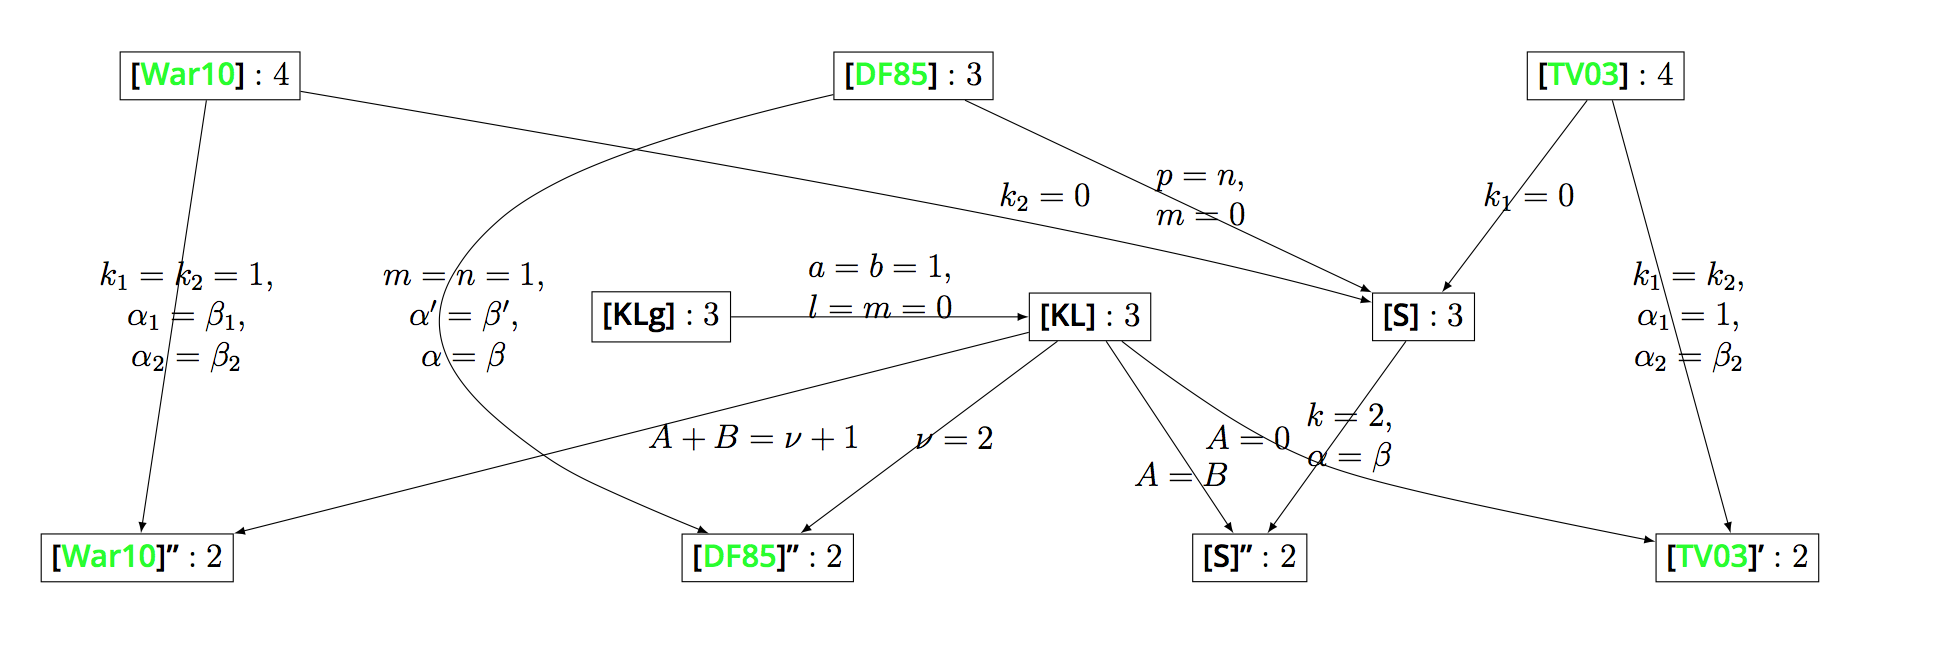
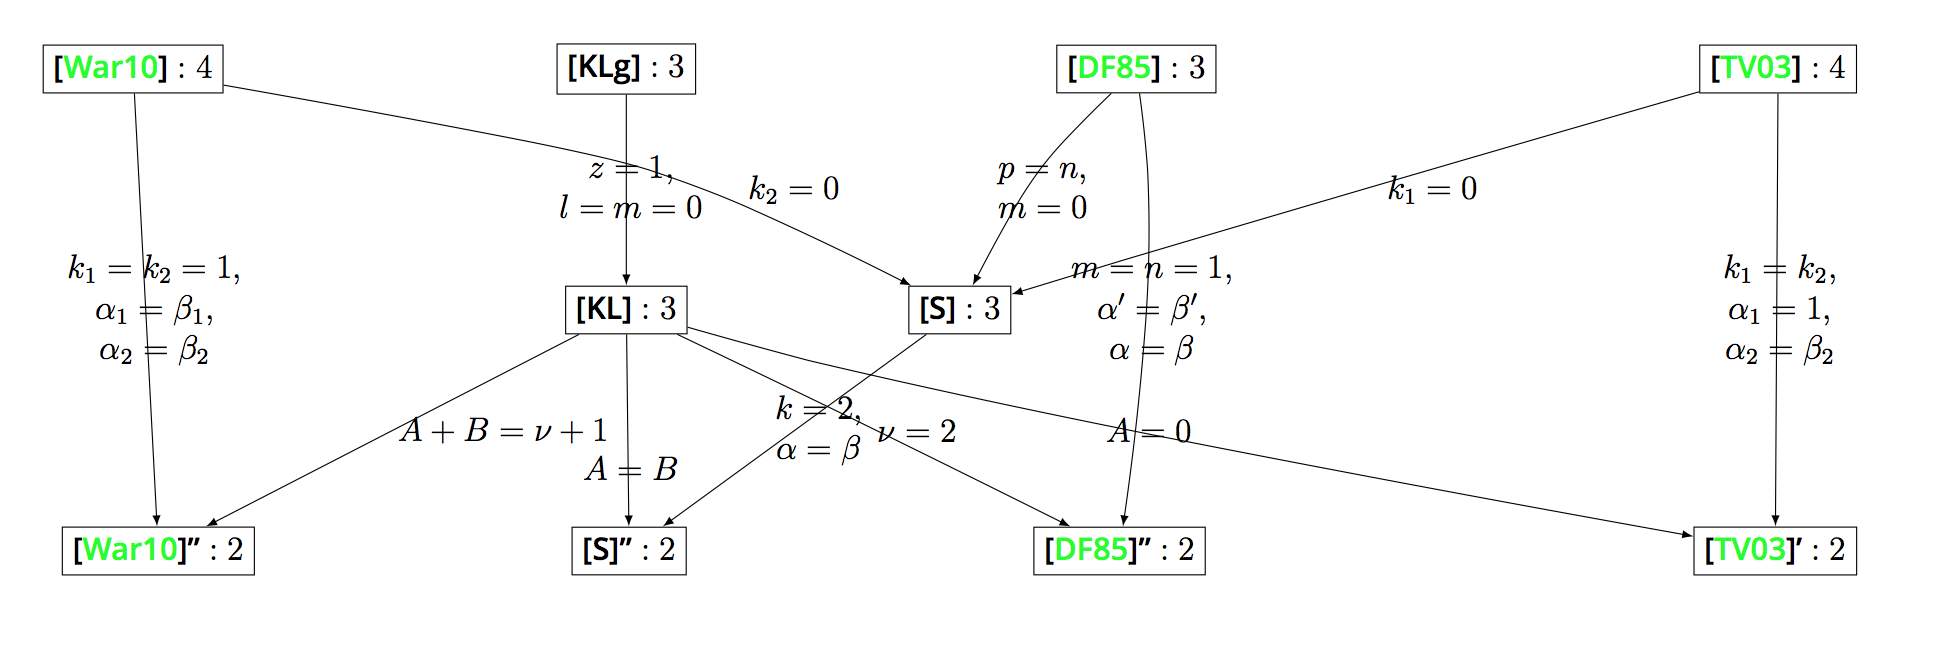
Commit

diff --git a/forlatex/intdep-dot2tex-fig2.tex b/forlatex/intdep-dot2tex-fig2.tex
@@ -22,41 +22,41 @@
   \definecolor{fillcol}{rgb}{1.0,1.0,1.0};
   \pgfsetfillcolor{fillcol}
 \end{scope}
-  \node (KLg) at (287.16bp,104.0bp) [draw,rectangle] {${\mbox{[KLg]}}:3$};
-  \node (Spp) at (497.16bp,18.0bp) [draw,rectangle] {$\mbox{[S]''}:2$};
-  \node (KL) at (440.16bp,104.0bp) [draw,rectangle] {${\mbox{[KL]}}:3$};
-  \node (S) at (559.16bp,104.0bp) [draw,rectangle] {$\mbox{[S]}:3$};
-  \node (DF85) at (377.16bp,190.0bp) [draw,rectangle] {$\mbox{\cite{dotsenko1985four}}:3$};
-  \node (War10) at (126.16bp,190.0bp) [draw,rectangle] {$\mbox{\cite{warnaar2010sl3}}:4$};
-  \node (War10pp) at (100.16bp,18.0bp) [draw,rectangle] {$\mbox{\cite{warnaar2010sl3}''}:2$};
-  \node (DF85pp) at (325.16bp,18.0bp) [draw,rectangle] {$\mbox{\cite{dotsenko1985four}''}:2$};
-  \node (TV03) at (624.16bp,190.0bp) [draw,rectangle] {$\mbox{\cite{tarasov2003selberg}}:4$};
-  \node (TV03p) at (671.16bp,18.0bp) [draw,rectangle] {$\mbox{\cite{tarasov2003selberg}'}:2$};
-  \draw [->] (KLg) ..controls (355.95bp,104.0bp) and (364.52bp,104.0bp)  .. (KL);
+  \node (DF85) at (455.64bp,190.0bp) [draw,rectangle] {$\mbox{\cite{dotsenko1985four}}:3$};
+  \node (Spp) at (274.64bp,18.0bp) [draw,rectangle] {$\mbox{[S]''}:2$};
+  \node (KL) at (273.64bp,104.0bp) [draw,rectangle] {${\mbox{[KL]}}:3$};
+  \node (S) at (392.64bp,104.0bp) [draw,rectangle] {$\mbox{[S]}:3$};
+  \node (KLg) at (273.64bp,190.0bp) [draw,rectangle] {${\mbox{[KLg]}}:3$};
+  \node (War10) at (97.64bp,190.0bp) [draw,rectangle] {$\mbox{\cite{warnaar2010sl3}}:4$};
+  \node (War10pp) at (106.64bp,18.0bp) [draw,rectangle] {$\mbox{\cite{warnaar2010sl3}''}:2$};
+  \node (DF85pp) at (449.64bp,18.0bp) [draw,rectangle] {$\mbox{\cite{dotsenko1985four}''}:2$};
+  \node (TV03) at (684.64bp,190.0bp) [draw,rectangle] {$\mbox{\cite{tarasov2003selberg}}:4$};
+  \node (TV03p) at (683.64bp,18.0bp) [draw,rectangle] {$\mbox{\cite{tarasov2003selberg}'}:2$};
+  \draw [->] (KLg) ..controls (273.64bp,160.36bp) and (273.64bp,145.43bp)  .. (KL);
   \definecolor{strokecol}{rgb}{0.0,0.0,0.0};
   \pgfsetstrokecolor{strokecol}
-  \draw (365.41bp,114.0bp) node {$\begin{array}[]{c}a=b=1,\\l=m=0\end{array}$};
-  \draw [->] (DF85) ..controls (257.57bp,161.95bp) and (230.84bp,146.31bp)  .. (214.66bp,122.0bp) .. controls (196.21bp,94.272bp) and (218.87bp,73.092bp)  .. (246.16bp,54.0bp) .. controls (253.17bp,49.094bp) and (260.96bp,44.594bp)  .. (DF85pp);
-  \draw (216.91bp,104.0bp) node {$\begin{array}[]{c}m=n=1,\\ \alpha'=\beta',\\\alpha=\beta\end{array}$};
-  \draw [->] (TV03) ..controls (601.33bp,159.79bp) and (589.34bp,143.93bp)  .. (S);
-  \draw (596.91bp,147.0bp) node {$k_1=0$};
-  \draw [->] (KL) ..controls (399.03bp,73.243bp) and (376.04bp,56.048bp)  .. (DF85pp);
-  \draw (391.91bp,61.0bp) node {$\nu=2$};
-  \draw [->] (TV03) ..controls (637.32bp,141.85bp) and (653.84bp,81.379bp)  .. (TV03p);
-  \draw (653.91bp,104.0bp) node {$\begin{array}[]{c}k_1=k_2,\\ \alpha_1=1,\\\alpha_2=\beta_2\end{array}$};
-  \draw [->] (KL) ..controls (477.67bp,75.267bp) and (497.4bp,62.231bp)  .. (516.66bp,54.0bp) .. controls (530.58bp,48.051bp) and (545.64bp,42.997bp)  .. (TV03p);
-  \draw (517.91bp,61.0bp) node {$\kern-1.5cm A=0$};
-  \draw [->] (War10) ..controls (118.9bp,141.98bp) and (109.82bp,81.897bp)  .. (War10pp);
-  \draw (117.91bp,104.0bp) node {$\begin{array}[]{c}k_1=k_2=1,\\\alpha_1=\beta_1,\\\alpha_2=\beta_2\end{array}$};
-  \draw [->] (DF85) ..controls (443.47bp,158.67bp) and (481.94bp,140.49bp)  .. (S);
-  \draw (479.91bp,147.0bp) node {$\begin{array}[]{c}p=n,\\m=0\end{array}$};
-  \draw [->] (KL) ..controls (460.19bp,73.79bp) and (470.7bp,57.933bp)  .. (Spp);
-  \draw (472.91bp,61.0bp) node {$\begin{array}[]{c}\\\\A=B\end{array}$};
-  \draw [->] (S) ..controls (537.38bp,73.79bp) and (525.95bp,57.933bp)  .. (Spp);
-  \draw (532.91bp,61.0bp) node {$\begin{array}[]{c}k=2,\\\alpha=\beta\end{array}$};
-  \draw [->] (War10) ..controls (319.57bp,156.83bp) and (456.39bp,132.93bp)  .. (S);
-  \draw (424.11bp,147.0bp) node {$k_2=0$};
-  \draw [->] (KL) ..controls (327.99bp,75.626bp) and (243.53bp,54.264bp)  .. (War10pp);
-  \draw (292.91bp,61.0bp) node {$\kern5emA+B=\nu+1$};
+  \draw (275.39bp,147.0bp) node {$\begin{array}[]{c}z=1,\\l=m=0\end{array}$};
+  \draw [->] (DF85) ..controls (458.71bp,166.05bp) and (459.32bp,159.78bp)  .. (459.64bp,154.0bp) .. controls (461.71bp,116.65bp) and (457.41bp,73.587bp)  .. (DF85pp);
+  \draw (461.39bp,104.0bp) node {$\begin{array}[]{c}m=n=1,\\ \alpha'=\beta',\\\alpha=\beta\end{array}$};
+  \draw [->] (TV03) ..controls (574.86bp,158.3bp) and (509.18bp,139.17bp)  .. (451.64bp,122.0bp) .. controls (450.2bp,121.57bp) and (448.73bp,121.13bp)  .. (S);
+  \draw (561.39bp,147.0bp) node {$k_1=0$};
+  \draw [->] (KL) ..controls (323.37bp,80.247bp) and (336.57bp,73.886bp)  .. (348.64bp,68.0bp) .. controls (366.74bp,59.174bp) and (386.62bp,49.362bp)  .. (DF85pp);
+  \draw (377.39bp,61.0bp) node {$\nu=2$};
+  \draw [->] (TV03) ..controls (684.36bp,141.98bp) and (684.01bp,81.897bp)  .. (TV03p);
+  \draw (685.39bp,104.0bp) node {$\begin{array}[]{c}k_1=k_2,\\ \alpha_1=1,\\\alpha_2=\beta_2\end{array}$};
+  \draw [->] (KL) ..controls (333.11bp,87.331bp) and (335.9bp,86.647bp)  .. (338.64bp,86.0bp) .. controls (416.07bp,67.675bp) and (504.09bp,50.383bp)  .. (TV03p);
+  \draw (481.39bp,61.0bp) node {$\kern-1.5cm A=0$};
+  \draw [->] (War10) ..controls (100.15bp,141.98bp) and (103.3bp,81.897bp)  .. (War10pp);
+  \draw (105.39bp,104.0bp) node {$\begin{array}[]{c}k_1=k_2=1,\\\alpha_1=\beta_1,\\\alpha_2=\beta_2\end{array}$};
+  \draw [->] (DF85) ..controls (431.2bp,166.27bp) and (425.7bp,160.11bp)  .. (421.14bp,154.0bp) .. controls (415.87bp,146.94bp) and (410.85bp,138.81bp)  .. (S);
+  \draw (422.39bp,147.0bp) node {$\begin{array}[]{c}p=n,\\m=0\end{array}$};
+  \draw [->] (KL) ..controls (273.98bp,74.36bp) and (274.16bp,59.434bp)  .. (Spp);
+  \draw (275.39bp,61.0bp) node {$\begin{array}[]{c}\\\\A=B\end{array}$};
+  \draw [->] (S) ..controls (350.36bp,73.186bp) and (326.63bp,55.893bp)  .. (Spp);
+  \draw (342.39bp,61.0bp) node {$\begin{array}[]{c}k=2,\\\alpha=\beta\end{array}$};
+  \draw [->] (War10) ..controls (230.5bp,166.37bp) and (265.12bp,159.26bp)  .. (281.64bp,154.0bp) .. controls (304.42bp,146.75bp) and (328.73bp,136.15bp)  .. (S);
+  \draw (333.59bp,147.0bp) node {$k_2=0$};
+  \draw [->] (KL) ..controls (213.02bp,72.785bp) and (178.11bp,54.803bp)  .. (War10pp);
+  \draw (202.39bp,61.0bp) node {$\kern5emA+B=\nu+1$};
 %
 \end{tikzpicture}

diff --git a/forlatex/intbib.tex b/forlatex/intbib.tex
@@ -1,0 +1,34 @@
+\documentclass[10pt]{article} % use larger type; default would be 10pt
+
+%%\usepackage[T1,T2A]{fontenc}
+%%\usepackage[utf8]{inputenc}
+%%\usepackage[english,ukrainian]{babel} % може бути декілька мов; остання з переліку діє по замовчуванню. 
+\usepackage{enumerate}
+\usepackage{CJKutf8}
+\usepackage{mystyle}
+
+%%\usepackage{fancyhdr}
+%%\pagestyle{fancy}
+%%\fancyfoot[C]{text me at \href{mailto:leontiev@ms.u-tokyo.ac.jp}{leontiev@ms.u-tokyo.ac.jp} if there are mistakes/obscurities}
+%%\fancyhead{}
+
+\title{}
+\author{}
+\date{}
+\begin{document}
+
+	\maketitle
+
+\nocite{Selberg:411367}
+\nocite{andrews1999special}
+\nocite{dotsenko1985four}
+\nocite{tarasov2003selberg}
+\nocite{warnaar2010sl3}
+
+\small
+\bibliography{intdep1}
+\bibliographystyle{mystyle}
+%%\begin{thebibliography}{9}
+%%\bibitem{gelbaum}Gelbaum, B.R. and Olmsted, J.M.H.. Counterexamples in Analysis. Dover Publications. 2003
+%%\end{thebibliography}
+\end{document}

diff --git a/forlatex/intdep.tex b/forlatex/intdep.tex
@@ -128,8 +128,8 @@
 	\vspace*{5cm}
 \begin{dot2tex}[mathmode,dot]//fdp
   digraph G {
-	  {rank=same War10 DF85 TV03}
-	  {rank=same KL S KLg}
+	  {rank=same War10 DF85 TV03 KLg}
+	  {rank=same KL S}
 	  {rank=same TV03p War10pp Spp DF85pp}
 	  War10 -> S [label="k_2=0"];
 	  DF85 -> S [label=" ",texlbl="$\begin{array}[]{c}p=n,\\m=0\end{array}$"];
@@ -142,7 +142,7 @@
 	  KL -> TV03p [label=" ",texlbl="$\kern-1.5cm A=0$"];
 	  DF85 -> DF85pp [label=" ",texlbl="$\begin{array}[]{c}m=n=1,\\ \alpha'=\beta',\\\alpha=\beta\end{array}$"];
 	  KL -> DF85pp [label=" ",texlbl="$\nu=2$"];
-	  KLg -> KL [label=" ",texlbl="$\begin{array}[]{c}a=b=1,\\l=m=0\end{array}$"];
+	  KLg -> KL [label=" ",texlbl="$\begin{array}[]{c}z=1,\\l=m=0\end{array}$"];
 
     KLg [shape="box",label="{\mbox{[KLg]}}:3"];
     KL [shape="box",label="{\mbox{[KL]}}:3"];
